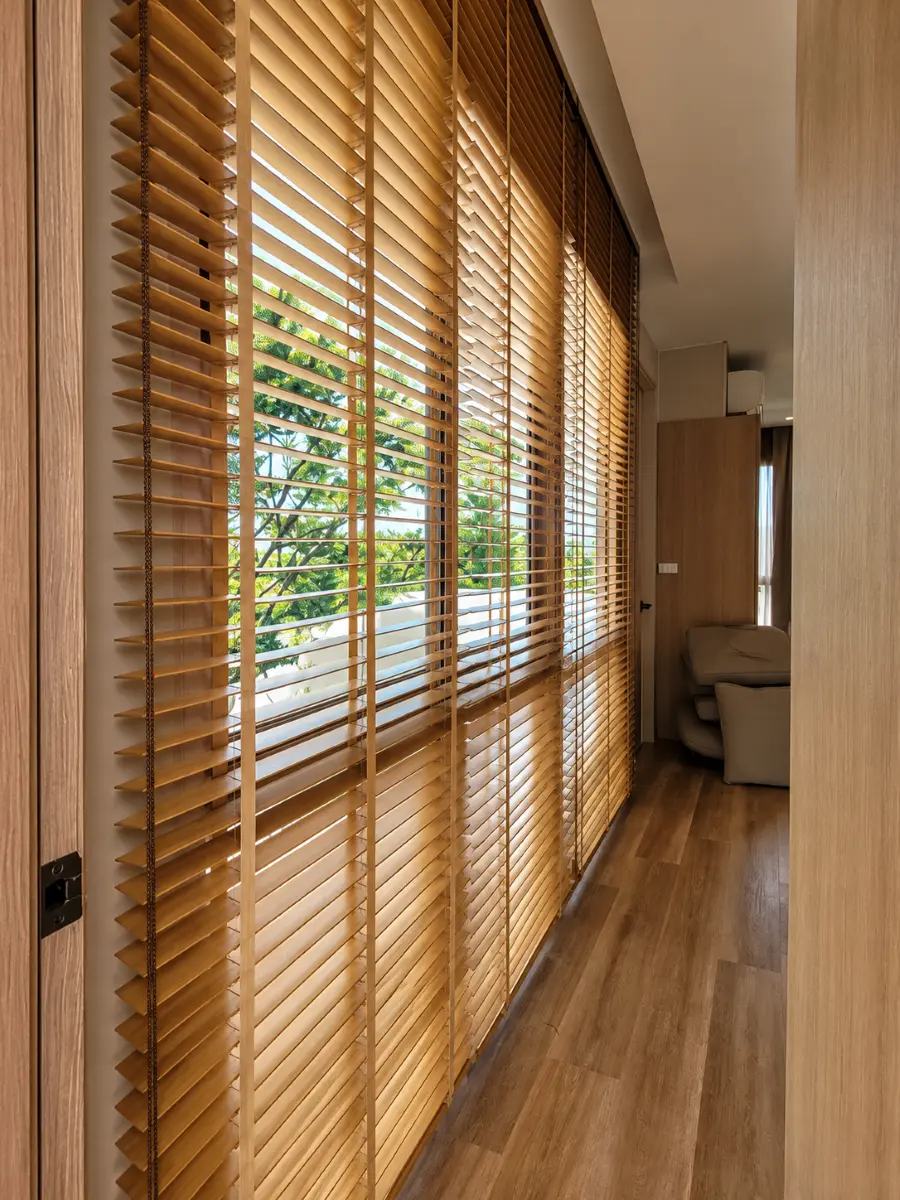
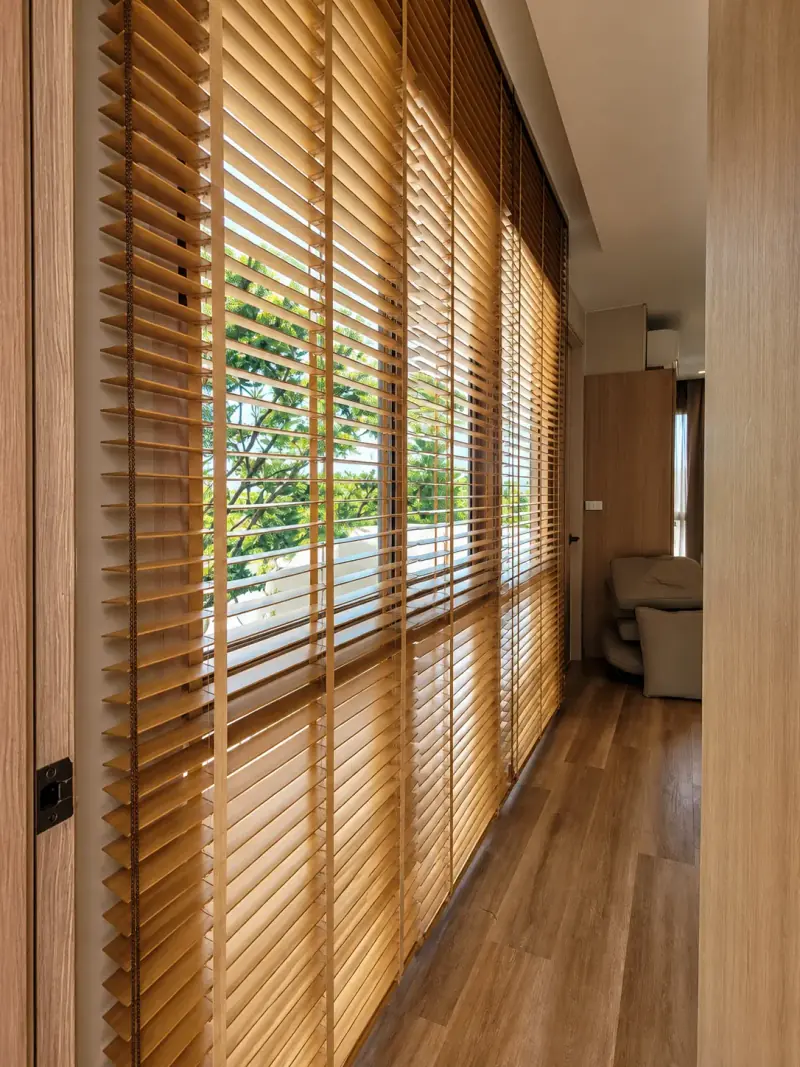
Blinds thumbnails

diff --git a/blinds.html b/blinds.html
@@ -132,7 +132,7 @@
         <li class="mini-gallery-item">
           <figure class="mini-gallery-figure">
             <a class="gallery-link" href="images/portfolio/roller-blinds-sunny.webp" data-gallery="blinds-mini" data-alt="[Describe image 1]" aria-label="Open image 1 in lightbox">
-              <img data-defer-src="images/portfolio/roller-blinds-sunny.webp" alt="[Describe image 1]" width="1086" height="1448" loading="lazy">
+              <img data-defer-src="images/portfolio/roller-blinds-sunny-thumb.webp" alt="[Describe image 1]" width="800" height="1067" loading="lazy">
             </a>
             <figcaption class="mini-gallery-caption">
               <strong class="mini-gallery-caption-title">แสงนุ่มสบายตา</strong>
@@ -143,7 +143,7 @@
         <li class="mini-gallery-item">
           <figure class="mini-gallery-figure">
             <a class="gallery-link" href="images/misc/khao-yai-wooden-blinds-contrast.webp" data-gallery="blinds-mini" data-alt="[Describe image 2]" aria-label="Open image 2 in lightbox">
-              <img data-defer-src="images/misc/khao-yai-wooden-blinds-contrast-thumb.webp" alt="[Describe image 2]" width="900" height="1200" loading="lazy">
+              <img data-defer-src="images/misc/khao-yai-wooden-blinds-contrast-thumb.webp" alt="[Describe image 2]" width="800" height="1067" loading="lazy">
             </a>
             <figcaption class="mini-gallery-caption">
               <strong class="mini-gallery-caption-title">ความสง่างาม</strong>
@@ -154,7 +154,7 @@
         <li class="mini-gallery-item">
           <figure class="mini-gallery-figure">
             <a class="gallery-link" href="images/misc/blinds-installation.webp" data-gallery="blinds-mini" data-alt="[Describe image 3]" aria-label="Open image 3 in lightbox">
-              <img data-defer-src="images/misc/blinds-installation.webp" alt="[Describe image 3]" width="1086" height="1448" loading="lazy">
+              <img data-defer-src="images/misc/blinds-installation-thumb.webp" alt="[Describe image 3]" width="800" height="1067" loading="lazy">
             </a>
             <figcaption class="mini-gallery-caption">
               <strong class="mini-gallery-caption-title">แสงอุ่นละมุน</strong>
@@ -165,7 +165,7 @@
         <li class="mini-gallery-item">
           <figure class="mini-gallery-figure">
             <a class="gallery-link" href="images/misc/boardroom-blinds-wide.webp" data-gallery="blinds-mini" data-alt="[Describe image 4]" aria-label="Open image 4 in lightbox">
-              <img data-defer-src="images/misc/boardroom-blinds-wide.webp" alt="[Describe image 4]" width="1448" height="880" loading="lazy">
+              <img data-defer-src="images/misc/boardroom-blinds-wide-thumb.webp" alt="[Describe image 4]" width="800" height="486" loading="lazy">
             </a>
             <figcaption class="mini-gallery-caption">
               <strong class="mini-gallery-caption-title">ประชุมอย่างมั่นใจ</strong>
